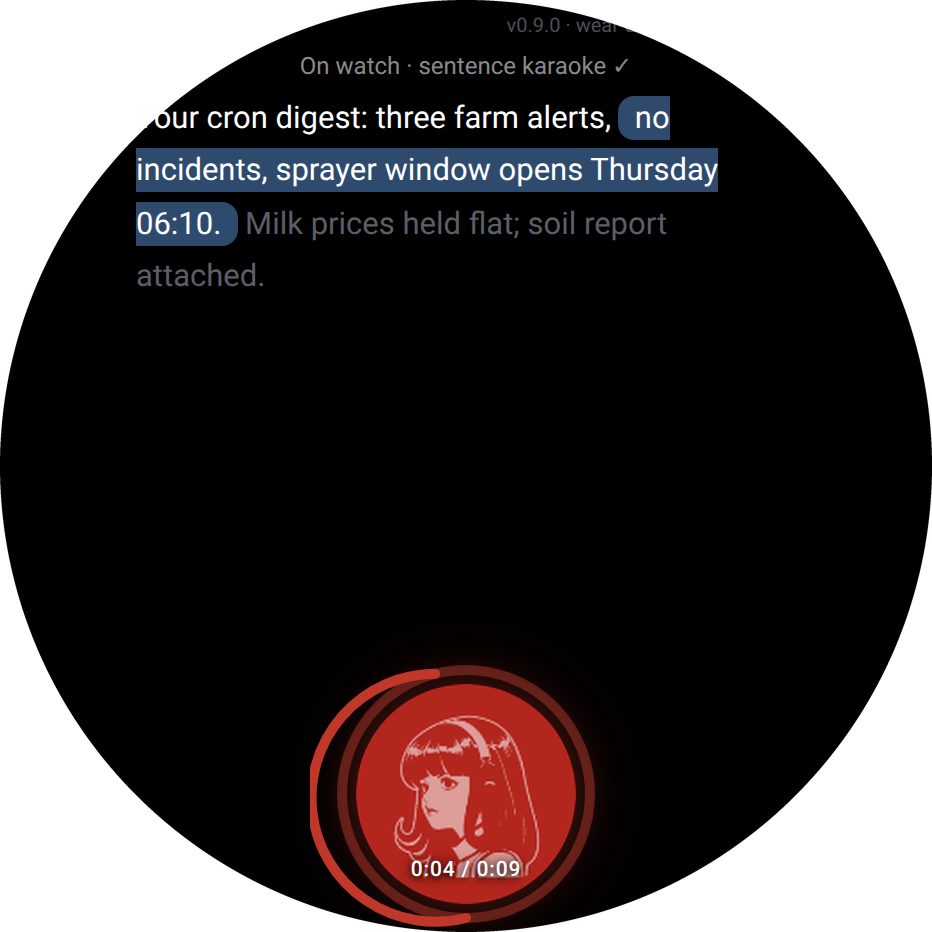
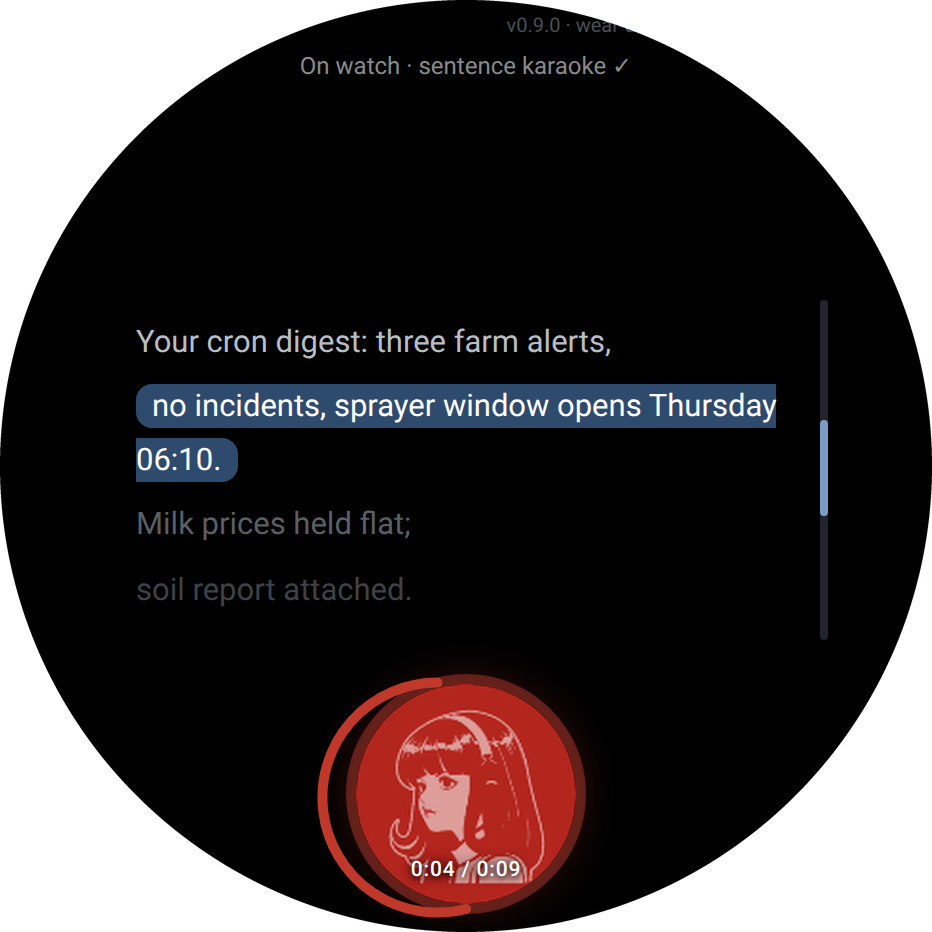
docs(mocks): D v5 — ring hugs the orb (tight crop, R=57.5, zero-gap verified by pixel scan); read-line pinned at screen center, text scrolls up past it; edge scrollbar cue

diff --git a/docs/mocks/voiceout/src/D-karaoke.html b/docs/mocks/voiceout/src/D-karaoke.html
@@ -4,20 +4,29 @@ html,body{width:466px;height:466px;background:#000;font-family:'Roboto','Google 
 .screen{position:relative;width:466px;height:466px;padding:26px 68px 0}
 .status{color:#8A8A8A;font-size:12px;text-align:center}
 .bug{position:absolute;top:8px;right:96px;font-size:10px;color:#4A4F55}
-.kara{font-size:15.5px;line-height:1.7;margin-top:6px;margin-bottom:120px}
-.kara .now{background:#2E4B6E;color:#fff;padding:2px 8px;border-radius:8px}
-.kara .said{color:#fff}.kara .next{color:#5A5F66}
+.scrollcue{position:absolute;right:52px;top:150px;height:170px;width:4px;border-radius:2px;background:#22252B}
+.scrollcue i{position:absolute;top:60px;width:4px;height:48px;border-radius:2px;background:#7A9CC6}
+.kara{position:absolute;top:0;left:68px;right:68px;height:466px;display:flex;flex-direction:column;justify-content:center;align-items:flex-start;text-align:left}
+.line{font-size:15.5px;line-height:1.7;margin:3px 0}
+.said{color:#B9BEC4}
+.now span{background:#2E4B6E;color:#fff;padding:2px 8px;border-radius:8px}
+.next{color:#5A5F66}
+.next2{color:#3E4247}
 .player{position:absolute;bottom:14px;left:0;right:0;display:flex;justify-content:center}
 .orbwrap{position:relative;width:110px;height:110px}
-.orbwrap img{width:110px;height:110px;border-radius:50%;display:block;filter:drop-shadow(0 0 12px rgba(192,57,43,.38)) drop-shadow(0 0 26px rgba(192,57,43,.14))}
+.orbwrap img{width:110px;height:110px;border-radius:50%;display:block;filter:drop-shadow(0 0 12px rgba(192,57,43,.35))}
 .time{position:absolute;left:0;right:0;bottom:11px;text-align:center;font-size:10.5px;font-weight:500;color:#fff;text-shadow:0 1px 3px rgba(0,0,0,.95),0 0 7px rgba(40,6,4,.9);letter-spacing:.4px}
 </style></head><body><div class=screen>
 <div class=bug>v0.9.0 · wear-demo · mock</div>
 <div class=status>On watch · sentence karaoke ✓</div>
-<div class=kara><span class=said>Your cron digest: three farm alerts,</span>
-<span class=now>no incidents, sprayer window opens Thursday 06:10.</span>
-<span class=next>Milk prices held flat; soil report attached.</span></div>
+<div class=kara>
+  <div class="line said">Your cron digest: three farm alerts,</div>
+  <div class="line now"><span>no incidents, sprayer window opens Thursday 06:10.</span></div>
+  <div class="line next">Milk prices held flat;</div>
+  <div class="line next2">soil report attached.</div>
+</div>
+<div class=scrollcue><i></i></div>
 <div class=player>
-  <div class=orbwrap><svg width="156" height="156" viewBox="0 0 156 156" style="position:absolute;left:-23px;top:-23px"><circle cx="78" cy="78" r="62" fill="none" stroke="rgba(96,32,26,0.9)" stroke-width="5"/><path d="M78.0,140.0 A62,62 0 1,1 62.6,17.9" fill="none" stroke="#C0392B" stroke-width="5" stroke-linecap="round"/></svg><img src="orb-real.png"><div class=time>0:04 / 0:09</div></div>
+  <div class=orbwrap><svg width="156" height="156" viewBox="0 0 156 156" style="position:absolute;left:-23px;top:-23px"><circle cx="78" cy="78" r="57.5" fill="none" stroke="rgba(96,32,26,0.9)" stroke-width="5"/><path d="M78.0,135.5 A57.5,57.5 0 1,1 63.7,22.3" fill="none" stroke="#C0392B" stroke-width="5" stroke-linecap="round"/></svg><img src="orb-real.png"><div class=time>0:04 / 0:09</div></div>
 </div>
 </div></body></html>
